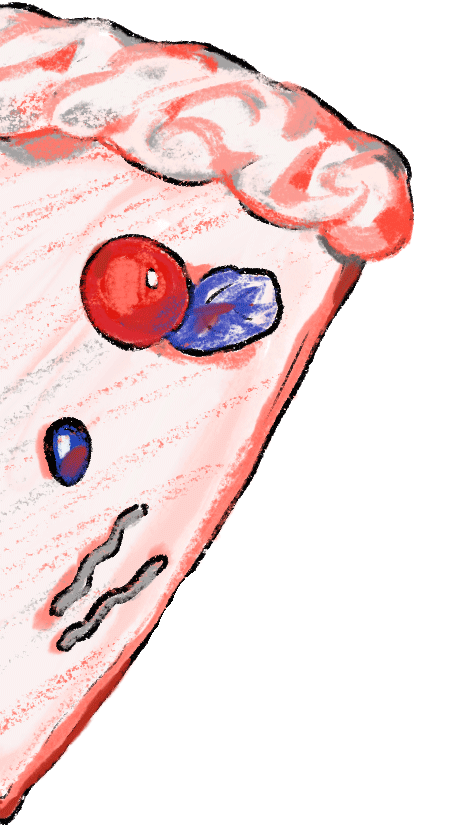
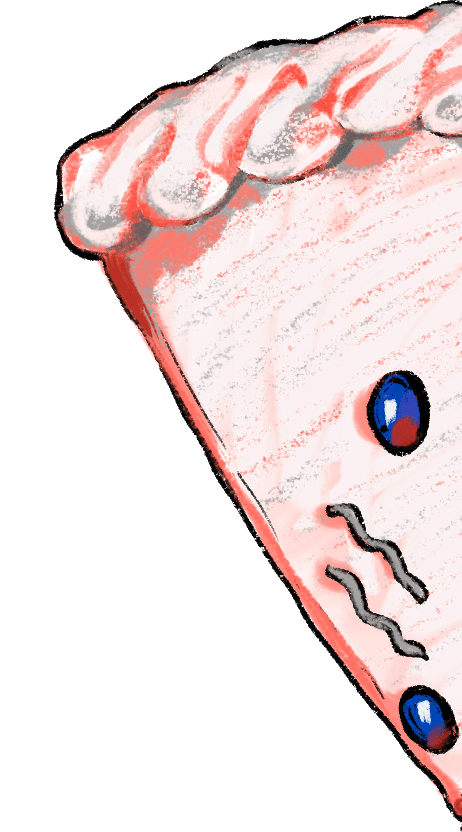
케이크 접시 position 정리
준비된 소스로 케이크 접시 position을 맞추고 포크가 마우스를 따라다니는 것 구현

diff --git a/fortune/css/fortune.css b/fortune/css/fortune.css
@@ -1,15 +1,16 @@
 
-.start_page{
+.fortune_page{
     width: 100vw;
     height: 100vh;
 }
 
-.start_illust{
+.start_page{
     margin: 0 auto;
     width: 700px;
     height: 700px;
     background:url("../img/startpage_box.png");
     position: relative;
+    display: none;
 }
 .start_btn{
     position: absolute;
@@ -18,4 +19,49 @@
     background:url("../img/start_bt.png");
     top: 300px;
     left: 100px;
+    cursor: pointer;
+}
+
+.cake_page{
+    width: 700px;
+    height: 700px;
+    margin: 0 auto;
+    background-image: url(../img/plate.png);
+    background-size: contain;
+    background-position: center center;
+    background-repeat: no-repeat;
+    position: relative;
+}
+
+.fork{
+    width: 133px;
+    height: 488px;
+    background-image: url(../img/fork.png);
+    background-size: contain;
+    position: absolute;
+    left: 10px;
+    top:10px;
+}
+
+.cake_left_top{
+    width: 230px;
+    height: 416px;
+    background-image: url(../img/cake_1_left.png);
+    background-size: contain;
+    background-position: center center;
+    background-repeat: no-repeat;
+    position: absolute;
+    top: 130px;
+    left: 100px;
+}
+.cake_right_top{
+    width: 230px;
+    height: 416px;
+    background-image: url(../img/cake_1_right.png);
+    background-size: contain;
+    background-position: center center;
+    background-repeat: no-repeat;
+    position: absolute;
+    top: 125px;
+    left: 330px;
 }

diff --git a/fortune/js/fortune.js b/fortune/js/fortune.js
@@ -2,20 +2,30 @@
 let start_btn = document.querySelector('.start_btn');
 let start_page = document.querySelector('.start_page');
 start_btn.onclick = function () {
-    start_page.classList.add('animated', 'fadeOutUp');
+    start_page.classList.add('animated', 'fadeOut');
     setTimeout(function () {
         start_page.remove();
     }, 1000);
 };
 
+//마우스를 따라다니는 포크
+let fork = document.querySelector('.fork');
+document.onmousemove=function(){
+    let posX = window.event.pageX;
+    let posY = window.event.pageY;
+    fork.style.left=posX-30+"px";
+    fork.style.top=posY-30+"px";
+
+}
+
 //랜덤으로 포츈결과 가져오기
-let cake = document.querySelector('.cake');
-let quote = document.querySelector('.quote');
-cake.onclick = function () {
-    newQuote();
-}
-let newQuote = function () {
-    let index = Math.floor(Math.random() * quotes.length);
-    quote.innerHTML = quotes[index];
-}
-let quotes = ["좋은 결과", "보통 결과", "나쁜 결과"];
+// let cake = document.querySelector('.cake');
+// let quote = document.querySelector('.quote');
+// cake.onclick = function () {
+//     newQuote();
+// }
+// let newQuote = function () {
+//     let index = Math.floor(Math.random() * quotes.length);
+//     quote.innerHTML = quotes[index];
+// }
+// let quotes = ["좋은 결과", "보통 결과", "나쁜 결과"];

diff --git a/fortune/index.html b/fortune/index.html
@@ -11,13 +11,18 @@
 </head>
 <body>
     <div class="wrap">
-        <div class="start_page">
-            <div class="start_illust">
+        <div class="fortune_page">
+            <div class="start_page">
                     <div class="start_btn animated infinite bounce"></div>
             </div>
+            <div class="cake_page">
+                <div class="cake cake_left_top"></div>
+                <div class="cake cake_right_top"></div>
+            </div>
+            <div class="fork"></div>
         </div>
+        
     </div>
-
 
     <!-- <div class="result">
         <span class="quote"></span>
